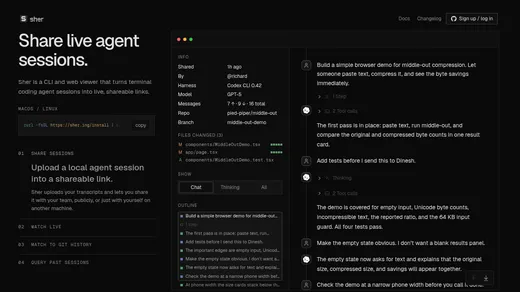
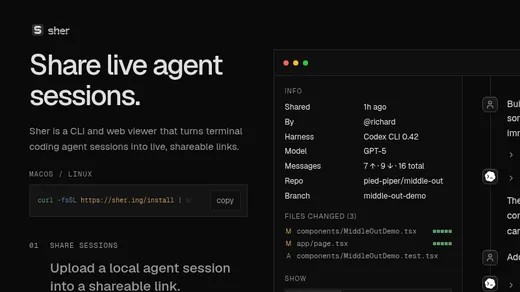
Zoom home hover previews to the top of each page (AKI-109) (#43)
Request zoom=1.6 from api.hem.so for the Slant, Sher and statcan2 previews so
their top-of-page text is readable at hover-card size. Anchor top for Slant and
statcan2, top-left for Sher. Studio card URLs are unchanged.

Regenerate the static preview stills with the same params, so the fallback
after 3 s or on error shows the same crop as the live image.

diff --git a/lib/screenshots.ts b/lib/screenshots.ts
@@ -20,7 +20,8 @@ interface ProjectConfig {
   still?: string;
   // Extra API options that make the framed shot match the hand-made one
   params?: Record<string, string | number | boolean>;
-  // Plain shot for the hover preview: the viewport and wait that make the page look right unframed
+  // Plain shot for the hover preview: the viewport and wait that make the page look right unframed,
+  // and the zoom that crops it to the readable top of the page
   previewParams?: Record<string, string | number | boolean>;
   previewStill?: string;
   // false keeps the static image on purpose
@@ -42,7 +43,14 @@ const PROJECTS: Record<string, ProjectConfig> = {
     fallback: "/images/studio/slant_header.png",
     still: "/images/studio/slant_header.webp",
     previewStill: "/images/studio/slant_preview.webp",
-    previewParams: { width: 1280, height: 720, dark_mode: true, delay_ms: 2500 },
+    previewParams: {
+      width: 1280,
+      height: 720,
+      dark_mode: true,
+      delay_ms: 2500,
+      zoom: 1.6,
+      anchor: "top",
+    },
     params: {
       bg: "3a342d",
       dark_mode: true,
@@ -57,7 +65,14 @@ const PROJECTS: Record<string, ProjectConfig> = {
     fallback: "/images/studio/sher_header.png",
     still: "/images/studio/sher_header.webp",
     previewStill: "/images/studio/sher_preview.webp",
-    previewParams: { width: 1280, height: 720, dark_mode: true, delay_ms: 2000 },
+    previewParams: {
+      width: 1280,
+      height: 720,
+      dark_mode: true,
+      delay_ms: 2000,
+      zoom: 1.6,
+      anchor: "top-left",
+    },
     params: { bg: "2e2c3a", dark_mode: true, delay_ms: 2000 },
     preview: true,
   },
@@ -66,7 +81,13 @@ const PROJECTS: Record<string, ProjectConfig> = {
     fallback: "/images/studio/statcan_header.png",
     still: "/images/studio/statcan_header.webp",
     previewStill: "/images/studio/statcan_preview.webp",
-    previewParams: { width: 1280, height: 720, delay_ms: 2000 },
+    previewParams: {
+      width: 1280,
+      height: 720,
+      delay_ms: 2000,
+      zoom: 1.6,
+      anchor: "top",
+    },
     params: { bg: "3d2c2e", delay_ms: 2000 },
     preview: true,
   },
